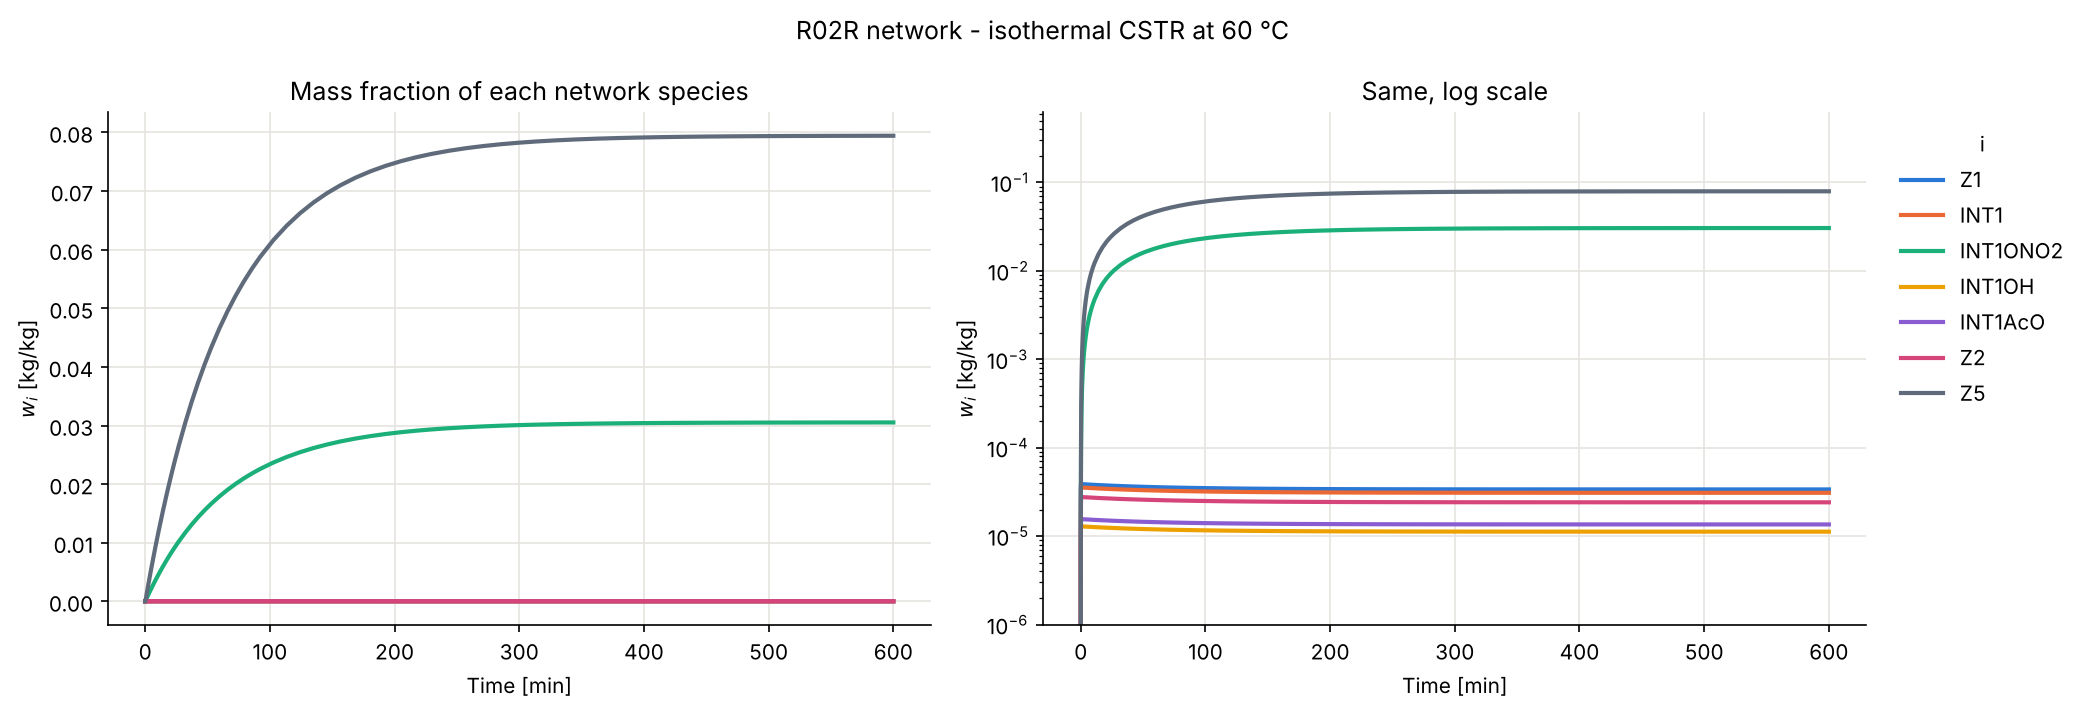
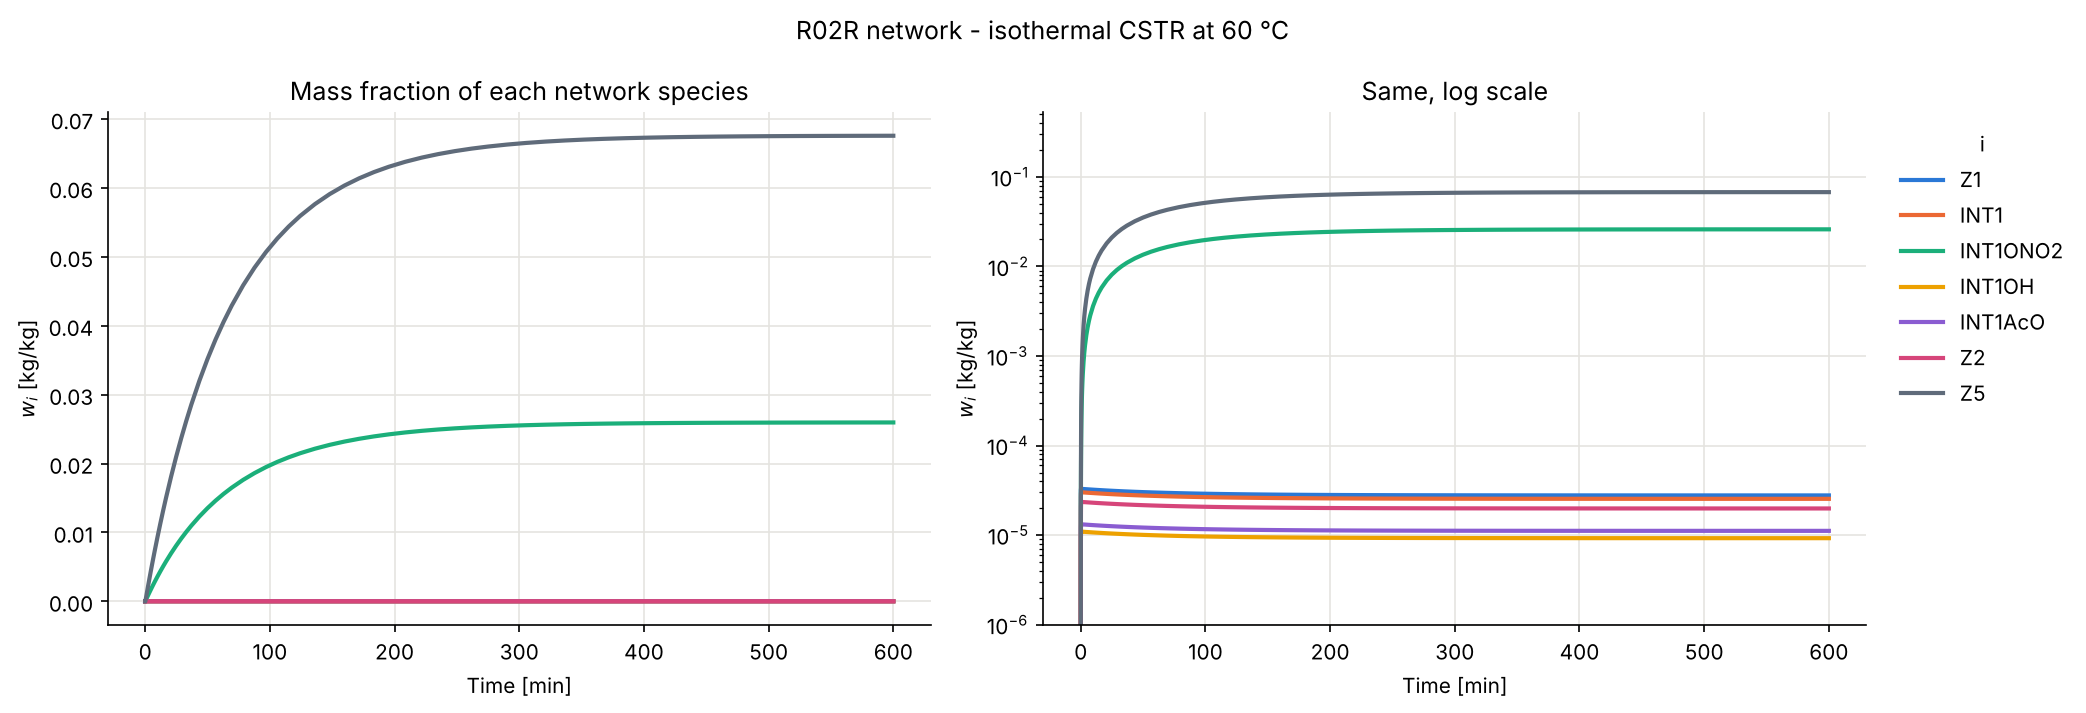
Network experiments: feed 2x A (A_FEED_FACTOR), regenerate results
Claude-Session: https://claude.ai/code/session_01K4fAYaknGs2j13owVbAtJi

diff --git a/Project work/R02R_network/R02R_network.py b/Project work/R02R_network/R02R_network.py
@@ -182,9 +182,16 @@ RATE_CONSTANTS = rate_constants()  # 1/s at KINETICS_TEMP_REF
 
 # ---------------------------------------------------------------- feed etc.
 # R02R's feed with C replaced by Z1. mol/L, full composition incl. solvent H.
+# The network experiments feed extra A: A_FEED_FACTOR multiplies R02R's
+# 3.841 mol/L. With the original amount G (5.276) outnumbers A, so K
+# formation leaves almost no free A; above ~1.4x there is A left over.
+# Only scripts in this folder read this feed (R02R_onemethod is unchanged).
+A_FEED_BASE = 3.841  # mol/L, R02R's A
+A_FEED_FACTOR = 2.0
 FEEDS = [
     ("Feed", 2.0e-2, "mol/L",
-     {"A": 3.841, "Z1": 0.509, "G": 5.276, "H": 5.938, "I": 1.110}),
+     {"A": A_FEED_BASE * A_FEED_FACTOR, "Z1": 0.509, "G": 5.276,
+      "H": 5.938, "I": 1.110}),
 ]
 FEED_TEMPERATURE = 303.15  # K (stream property; the vessel is isothermal)
 

diff --git a/Project work/R02R_network/R02R_network_full.py b/Project work/R02R_network/R02R_network_full.py
@@ -204,8 +204,9 @@ K_MAX = net.K_MAX  # 1/s, cap on a species' pseudo-first-order loss
 TS_ENTROPY_PENALTY = 0.0  # kJ/mol per transition-state molecule beyond 1
 # Upper-bound bulk concentrations [mol/L] used only to size the cap: the
 # quoted feed values, with H allowed to grow by the A it can make.
-C_REF = {"A": 3.841, "G": 5.276, "H": 5.938 + 3.841, "I": 1.110,
-         "K": 3.841}
+_A_FED = net.FEEDS[0][3]["A"]
+C_REF = {"A": _A_FED, "G": 5.276, "H": 5.938 + _A_FED, "I": 1.110,
+         "K": _A_FED}
 C_REF_DEFAULT = 1.0  # mol/L, any other co-reactant (e.g. water)
 BULK_SPECIES = ("A", "B", "G", "H", "I", "K")  # co-reactants/catalysts
 C_REF_FLOOR = 1e-3  # mol/L, so an absent species (water) still sizes a cap
